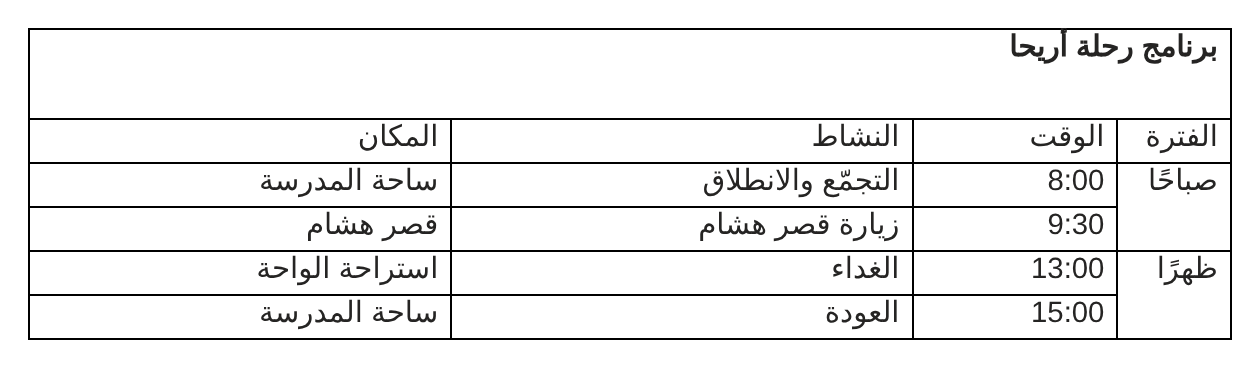
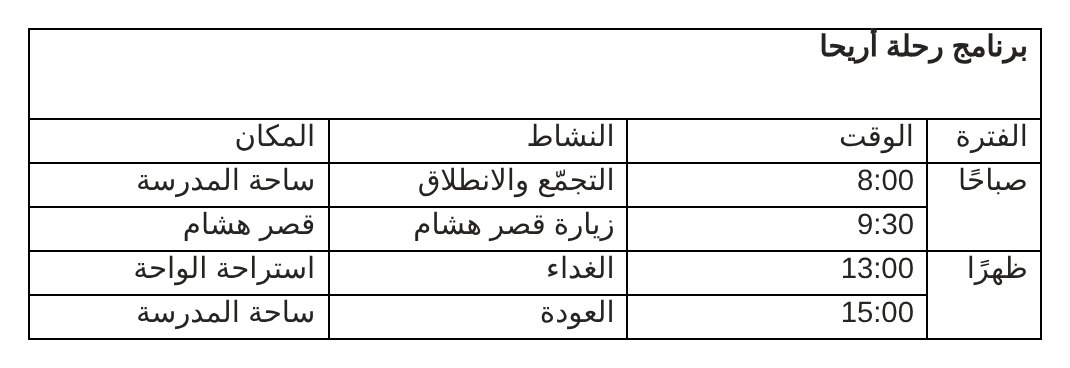
Building challenge: 7-column grid with thin column by the door, light-blue borders, colors via More Colors, pattern via Borders and Shading dialog, Hebron bottom-to-top; textDir cycles like Word; pen splits at drawn position; split-cells column fix; column width keeps other columns
Claude-Session: https://claude.ai/code/session_01SbWiHNL6HNT2SQV93v4NLa

diff --git a/js/tdemos.js b/js/tdemos.js
@@ -36,18 +36,22 @@ DA('PIC_DBL',()=>[cell(()=>c(0,0)),{cmd:'penStyle',arg:'double',say:'نمط ال
 DA('PIC_DASH',()=>[cell(()=>c(1,0)),{cmd:'penStyle',arg:'dashed',say:'نمط الحد: متقطع'},{cmd:'tborders',arg:'inside',say:'حدود ← حدود داخلية'},{cmd:'penStyle',arg:'solid',say:'نمط الحد: متصل'},{cmd:'penWeight',arg:'3',say:'السُّمك: 2¼'},{cmd:'tborders',arg:'outside',say:'حدود ← حدود خارجية'}]);
 DA('PIC_PAINT',()=>[cell(()=>c(0,0)),{cmd:'penColor',arg:'#00b050',say:'لون القلم: أخضر'},{cmd:'penWeight',arg:'3',say:'السُّمك: 2¼'},{cmd:'tselect',arg:'col',say:'تحديد العمود'},js('حدود ← الحد الأيسر للعمود',()=>OPS.tborders(isRTLt(T())?'left':'right'))]);
 DA('PIC_SPLITT',()=>[cell(()=>findCell('13:00'),'النقر في صف «13:00»'),{cmd:'splitTable',say:'تقسيم الجدول'},cell(()=>{const t=[...document.querySelectorAll('#doc table.wt')].find(x=>/ماء/.test(x.textContent));return t&&t.rows[1].cells[0]}),{cmd:'convertText',say:'تحويل إلى نص'},cell(()=>{const t=[...document.querySelectorAll('#doc table.wt')].find(x=>/قديم/.test(x.textContent));return t&&t.rows[0].cells[0]}),{cmd:'tdel',arg:'table',say:'حذف ← حذف الجدول'}]);
-/* تحدٍّ: جدول المبنى — عدّة طرق للحل. الإحداثيات كما تُرى في الصورة (من اليسار): a b | c | d(الباب) | e f */
+/* تحدٍّ: جدول المبنى — عدّة طرق للحل.
+   أعمدة الصورة من اليسار (7): a b | c | d=الباب | g=عمود رفيع بجانب الباب | e f
+   ترتيب الخلايا في كل صف بالـDOM يبدأ من اليمين:
+   0: [ef][cdg][ab]   1,2: [ef][g][d][c][ab]   3: [EF كبير][g][d][c][b][a]  4: [b][a]   5: أخضر   6: [f][eg][d][c][ab] */
 (()=>{const it=g('HOUSE_TASK');if(!it)return;
  const T_=()=>HT();
  const GL=(r,c)=>{const t=T_();if(!t)return null;let hit=null;gridMap(t).forEach((v,td)=>{if(!hit&&v.r1<=r&&r<=v.r2&&v.c1<=c&&c<=v.c2)hit=td});return hit};
  const NC=()=>{const t=T_();let n=0;if(t)gridMap(t).forEach(v=>{n=Math.max(n,v.c2+1)});return n};
- /* عمود الصورة → العمود المنطقي (الجدول العربي يبدأ من اليمين) */
  const LC=pc=>{const t=T_();return t&&isRTLt(t)?NC()-1-pc:pc};
  const P=(r,pc)=>GL(r,LC(pc));
  const D=(r,i)=>{const t=T_();return t&&t.rows[r]?t.rows[r].cells[i]:null};
- const sel=(a,b,say)=>cells(()=>P(...a),()=>P(...b),say);const one=(r,pc,say)=>cell(()=>P(r,pc),say);
- const M=(a,b,say)=>[sel(a,b,say||'حدّد الخلايا بالسحب'),{cmd:'merge',say:'تخطيط ← دمج الخلايا'}];
- /* المؤشر ينتقل إلى نقطة ثم يضغط/يسحب بأحداث ماوس حقيقية */
+ const LD=r=>{const t=T_();return t&&t.rows[r]?t.rows[r].cells[t.rows[r].cells.length-1]:null};
+ const sel=(a,b,say)=>cells(()=>P(...a),()=>P(...b),say);
+ const M=(a,b,say)=>[sel(a,b,say||'تحديد الخلايا بالسحب'),{cmd:'merge',say:'تخطيط ← دمج الخلايا'}];
+ const MD=(ga,gb,say)=>[cells(ga,gb,say||'تحديد الخلايا بالسحب'),{cmd:'merge',say:'تخطيط ← دمج الخلايا'}];
+ const ROW=(r,say)=>cells(()=>D(r,0),()=>LD(r),say);const ONE=(get,say)=>cells(get,get,say);
  const cur=()=>document.getElementById('cursor');
  async function goPt(x,y,ms=650){const c=cur();c.style.display='block';c.style.transitionDuration=(ms*PLAY.k)+'ms';c.style.left=x+'px';c.style.top=y+'px';await A().W(ms+50)}
  const ev=(el,type,x,y)=>el.dispatchEvent(new MouseEvent(type,{bubbles:true,cancelable:true,clientX:x,clientY:y,button:0}));
@@ -55,62 +59,68 @@ DA('PIC_SPLITT',()=>[cell(()=>findCell('13:00'),'النقر في صف «13:00»'
  async function dragPt(el,x1,y1,x2,y2){await goPt(x1,y1);const c=cur();c.classList.add('clk');ev(el,'mousedown',x1,y1);const n=10;for(let i=1;i<=n;i++){const x=x1+(x2-x1)*i/n,y=y1+(y2-y1)*i/n;c.style.transitionDuration='0ms';c.style.left=x+'px';c.style.top=y+'px';ev(document,'mousemove',x,y);await A().W(45)}ev(document,'mouseup',x2,y2);await A().W(250);c.classList.remove('clk')}
  const tool=(t,say)=>({cmd:t==='eraser'?'eraser':'drawTable',say});
  const toolOff=()=>js('',()=>{setTool(null)});
- /* الممحاة: نقرة على الخط الفاصل نفسه فقط (مثل Word) */
- const ER=(r,pc,side,say)=>js(say||'الممحاة: النقر على الخط لمسحه',async()=>{const td=P(r,pc);if(!td)return;await A().showAt(td);const R=td.getBoundingClientRect();
+ /* الممحاة: نقرة على الخط الفاصل نفسه فقط (مثل Word). EH = الخط على يمين خلية الصورة (r,pc) · EV = الخط تحتها */
+ const ER=(r,pc,side,say)=>js(say||'',async()=>{const td=P(r,pc);if(!td)return;await A().showAt(td);const R=td.getBoundingClientRect();
    const row=T_().rows[r].getBoundingClientRect();const ym=(row.top+row.bottom)/2;let x,y;
-   if(side==='right'){x=R.right-2;y=ym}else if(side==='left'){x=R.left+2;y=ym}else{x=(R.left+R.right)/2;y=R.bottom-2}
+   if(side==='right'){x=R.right-2;y=ym}else{x=(R.left+R.right)/2;y=R.bottom-2}
    S.tool!=='eraser'&&setTool('eraser');await clickPt(td,x,y)});
- /* ممحاة بين عمودين في الصورة (pc و pc+1) في الصف r */
  const EH=(r,pc,say)=>ER(r,pc,'right',say);const EV=(r,pc,say)=>ER(r,pc,'bottom',say);
- /* القلم: رسم خط داخل الخلية يقسمها */
- /* keep = عدد الأعمدة التي تبقى في الجزء الأيمن عندما تمتد الخلية على أكثر من عمود: يُرسم الخط على حدّ العمود الموجود */
+ /* القلم: keep رقم = يُرسم الخط على حدّ موجود بعد keep أعمدة من اليمين؛ keep دالة = موضع الخط */
  const PEN=(get,dir,say,keep)=>js(say||'',async()=>{const td=get();if(!td)return;await A().showAt(td);const R=td.getBoundingClientRect();S.tool!=='draw'&&setTool('draw');
-   if(dir==='v'){let x=(R.left+R.right)/2;if(keep&&td.colSpan>1){const v=gridMap(td.closest('table')).get(td),m=colEdges(td.closest('table'));if(m[v.c1+keep]!=null)x=m[v.c1+keep]}await dragPt(td,x,R.top+6,x,R.bottom-6)}
+   if(dir==='v'){let x=(R.left+R.right)/2;if(typeof keep==='function')x=keep(td);else if(keep&&td.colSpan>1){const v=gridMap(td.closest('table')).get(td),m=colEdges(td.closest('table'));if(m[v.c1+keep]!=null)x=m[v.c1+keep]}await dragPt(td,x,R.top+6,x,R.bottom-6)}
    else{const y=(R.top+R.bottom)/2;await dragPt(td,R.left+6,y,R.right-6,y)}});
- /* تقسيم الخلايا من النافذة الحقيقية */
- const SPL=(get,n,rr,say)=>[cell(get,say||'انقر في الخلية'),{cmd:'splitCells',say:`تخطيط ← تقسيم الخلايا: ${n} ${n===1?'عمود':'أعمدة'} × ${rr} ${rr===1?'صف':'صفوف'}`},{fill:'#sc',value:String(n)},{fill:'#sr',value:String(rr)},{click:'#dlgs .df button.pri',say:'موافق'}];
+ const SPL=(get,n,rr,say)=>[cell(get,say||'النقر في الخلية'),{cmd:'splitCells',say:`تخطيط ← تقسيم الخلايا: ${n} ${n===1?'عمود':'أعمدة'} × ${rr} ${rr===1?'صف':'صفوف'}`},{fill:'#sc',value:String(n)},{fill:'#sr',value:String(rr)},{click:'#dlgs .df button.pri',say:'موافق'}];
  const START=(r,c)=>[endP(),{show:'table',say:`إدراج ← جدول ← ${c} ${c===1?'عمود':'أعمدة'} × ${r} صفوف`},js('',()=>insertTable(r,c))];
- const DIST=()=>[one(0,0,'توزيع الأعمدة بالتساوي'),{cmd:'tselect',arg:'table',say:'تحديد ← الجدول'},{cmd:'distCols',say:'تخطيط ← توزيع الأعمدة'}];
- /* التنسيق نفسه في كل الطرق — بترتيب الخلايا في كل صف (الأولى = اليمنى)، فيعمل مهما كانت طريقة البناء */
- const LD=r=>{const t=T_();return t&&t.rows[r]?t.rows[r].cells[t.rows[r].cells.length-1]:null};
- const ROW=(r,say)=>cells(()=>D(r,0),()=>LD(r),say);const ONE=(get,say)=>cells(get,get,say);
+ /* النقش: «حدود وتظليل» ← تبويب «التظليل» ← النمط: قطري لأسفل داكن */
+ const PAT=()=>[cell(()=>D(1,0),'الخلية فوق المربع الكبير'),{cmd:'tborders',arg:'more',say:'حدود ← حدود وتظليل...'},
+   js('تبويب «التظليل»',async()=>{const b=$('#dlgs .bdtabs button[data-t="shade"]');if(!b)return;await A().moveTo(b,600);A().clickFx();b.click();await A().W(400)}),
+   js('النقش ← النمط: قطري لأسفل داكن',async()=>{const x=$('#dlgs .bdP');if(!x)return;await A().moveTo(x,600);A().clickFx();x.value='dkD';x.dispatchEvent(new Event('change'));x.style.outline='3px solid #f0a020';await A().W(800);x.style.outline=''}),
+   {click:'#dlgs .df button.pri',say:'موافق'}];
  const DOOR=(get,say,top)=>[ONE(get,say),{cmd:'tborders',arg:'right',say:'حدود ← حد أيمن'},{cmd:'tborders',arg:'left',say:'حدود ← حد أيسر'},...(top?[{cmd:'tborders',arg:'top',say:'حدود ← حد علوي'}]:[])];
- const FMT=()=>[...DIST(),{cmd:'shading',arg:'#deebf6',say:'تظليل ← أزرق فاتح للجدول كله'},
-  ROW(0,'الصف الأول'),{cmd:'shading',arg:'#44546a',say:'تظليل ← كحلي'},ROW(2,'الصف الثالث'),{cmd:'shading',arg:'#7030a0',say:'تظليل ← بنفسجي'},cell(()=>D(5,0),'الصف الطويل'),{cmd:'shading',arg:'#70ad47',say:'تظليل ← أخضر'},ROW(6,'الصف الأخير'),{cmd:'shading',arg:'#843c0c',say:'تظليل ← أحمر غامق'},
-  cell(()=>D(1,0),'الخلية فوق المربع الكبير'),{cmd:'shading',arg:'pattern',say:'حدود وتظليل ← نقش قطري'},
-  {cmd:'penStyle',arg:'double',say:'نمط الخط ← مزدوج'},...DOOR(()=>D(1,1),'الباب: الخلية الأولى',true),...DOOR(()=>D(2,1),'الباب: الخلية الثانية'),...DOOR(()=>D(3,1),'الباب: الخلية الطويلة'),...DOOR(()=>D(6,2),'الباب في الصف الأخير'),
-  ROW(6,'أسفل الجدول'),{cmd:'tborders',arg:'bottom',say:'حدود ← حد سفلي'},{cmd:'penStyle',arg:'solid',say:'نمط الخط ← متصل'},
+ /* التنسيق نفسه في كل الطرق — بترتيب الخلايا في كل صف (الأولى = اليمنى) */
+ const FMT=(dist=true)=>[...(dist?[cell(()=>D(0,0),'توزيع الأعمدة بالتساوي'),{cmd:'tselect',arg:'table',say:'تحديد ← الجدول'},{cmd:'distCols',say:'تخطيط ← توزيع الأعمدة'},
+     cells(()=>D(1,1),()=>D(2,1),'العمود الرفيع بجانب الباب'),{cmd:'colW',arg:'0.6',say:'تخطيط ← العرض 0.6 سم'}]:[]),
+  cell(()=>D(0,0),'الجدول كله'),{cmd:'tselect',arg:'table',say:'تحديد ← الجدول'},{cmd:'shading',arg:'#deedf2',say:'تظليل ← ألوان أخرى ← أزرق فاتح'},
+  {cmd:'penStyle',arg:'solid',say:'نمط الخط ← مفرد'},{cmd:'penColor',arg:'#7dabba',say:'لون القلم ← ألوان أخرى ← أزرق فاتح'},{cmd:'tborders',arg:'all',say:'حدود ← كل الحدود (أزرق فاتح)'},
+  ROW(0,'الصف الأول'),{cmd:'shading',arg:'#4a8098',say:'تظليل ← ألوان أخرى ← أزرق مخضرّ داكن'},ROW(2,'الصف الثالث'),{cmd:'shading',arg:'#7030a0',say:'تظليل ← بنفسجي'},
+  cell(()=>D(5,0),'الصف الطويل'),{cmd:'shading',arg:'#7b9148',say:'تظليل ← ألوان أخرى ← أخضر زيتي'},ROW(6,'الصف الأخير'),{cmd:'shading',arg:'#893b37',say:'تظليل ← ألوان أخرى ← أحمر غامق'},
+  ...PAT(),
+  {cmd:'penStyle',arg:'double',say:'نمط الخط ← مزدوج'},{cmd:'penColor',arg:'#000000',say:'لون القلم ← أسود'},
+  ...DOOR(()=>D(1,2),'الباب: الخلية الأولى',true),...DOOR(()=>D(2,2),'الباب: الخلية الثانية'),...DOOR(()=>D(3,2),'الباب: الخلية الطويلة'),...DOOR(()=>D(6,2),'الباب في الصف الأخير'),
+  ROW(6,'أسفل الجدول'),{cmd:'tborders',arg:'bottom',say:'حدود ← حد سفلي'},{cmd:'penStyle',arg:'solid',say:'نمط الخط ← مفرد'},
   typeIn(()=>D(3,0),'Bottom center alignment'),cell(()=>D(3,0),'المربع الكبير'),{cmd:'calign',arg:'bottom-center',say:'تخطيط ← محاذاة لأسفل الوسط'},
-  typeIn(()=>D(5,0),'Hebron'),cell(()=>D(5,0),'الصف الأخضر'),{cmd:'textDir',say:'تخطيط ← اتجاه النص'},{cmd:'calign',arg:'middle-center',say:'تخطيط ← محاذاة للوسط'},{cmd:'rowH',arg:'1.8',say:'الارتفاع 1.8 سم'},
+  typeIn(()=>D(5,0),'Hebron'),cell(()=>D(5,0),'الصف الأخضر'),{cmd:'rowH',arg:'1.8',say:'تخطيط ← الارتفاع 1.8 سم'},{cmd:'textDir',say:'اتجاه النص (1): من الأعلى للأسفل'},{cmd:'textDir',say:'اتجاه النص (2): من الأسفل للأعلى — مثل الصورة'},{cmd:'calign',arg:'middle-center',say:'تخطيط ← محاذاة للوسط'},
   js('تحديد «Hebron» ← غامق ← لون الخط أصفر',async()=>{const c=D(5,0);selectWord(c,'Hebron');OPS.bold();selectWord(c,'Hebron');OPS.fontcolor('#ffff00');clearCells()})];
- /* دمج الطريقة 1 (بإحداثيات الصورة) */
- const MERGES=()=>[...M([0,0],[0,1],'الصف الأول: ادمج كل جزأين'),...M([0,2],[0,3]),...M([0,4],[0,5]),...[1,2].flatMap(r=>[...M([r,0],[r,1]),...M([r,4],[r,5])]),
-   ...M([3,2],[4,2],'الأعمدة الطويلة: ادمج عموديًّا'),...M([3,3],[4,3]),...M([3,4],[4,5],'المربع الكبير: 2×2'),...M([5,0],[5,5],'الصف الأخضر كله خلية واحدة'),...M([6,0],[6,1])];
- const ERASE=()=>[tool('eraser','تصميم الجدول ← الممحاة'),EH(0,0,'امسح الخط بين الخليتين'),EH(0,2),EH(0,4),...[1,2].flatMap(r=>[EH(r,0),EH(r,4)]),EV(3,2,'امسح الخط الأفقي'),EV(3,3),EH(3,4),EH(4,4),EV(3,4,'المربع الكبير'),
-   EH(5,0,'الصف الأخضر: امسح كل الخطوط'),EH(5,0),EH(5,0),EH(5,0),EH(5,0),EH(6,0),toolOff()];
+ /* 7 أعمدة × 7 صفوف: الدمج */
+ const MERGES=()=>[...M([0,0],[0,1],'الصف الأول: دمج كل جزء'),...M([0,2],[0,4]),...M([0,5],[0,6]),...[1,2].flatMap(r=>[...M([r,0],[r,1]),...M([r,5],[r,6])]),
+   ...M([3,2],[4,2],'الأعمدة الطويلة: دمج عموديًّا'),...M([3,3],[4,3]),...M([3,4],[4,4]),...M([3,5],[4,6],'المربع الكبير: 2×2'),...M([5,0],[5,6],'الصف الأخضر كله خلية واحدة'),...M([6,0],[6,1],'الصف الأخير'),...M([6,4],[6,5])];
+ const ERASE=()=>[tool('eraser','تصميم الجدول ← الممحاة'),EH(0,0,'النقر على الخط بين الخليتين يمسحه فقط'),EH(0,2),EH(0,2),EH(0,5),...[1,2].flatMap(r=>[EH(r,0),EH(r,5)]),
+   EV(3,2,'مسح الخطوط الأفقية في الأعمدة الطويلة'),EV(3,3),EV(3,4),EH(3,5,'المربع الكبير'),EH(4,5),EV(3,5),
+   EH(5,0,'الصف الأخضر: مسح كل الخطوط'),EH(5,0),EH(5,0),EH(5,0),EH(5,0),EH(5,0),EH(6,0,'الصف الأخير'),EH(6,4),toolOff()];
+ const efRight=td=>{const R=td.getBoundingClientRect(),m=colEdges(td.closest('table')),v=gridMap(td.closest('table')).get(td);const a=m[v.c1],b=m[v.c1+1];return a!=null&&b!=null?a+(b-a)*0.5:(R.left+R.right)/2};
  it.demoMethods=[
-  {name:'1. الدمج فقط',d:'إدراج جدول 6 أعمدة × 7 صفوف (عدد كل الأعمدة والصفوف في الصورة)، ثم تحديد الخلايا التي يجب أن تصبح خلية واحدة ← «دمج الخلايا».',
-   list:()=>[...START(7,6),...MERGES(),...FMT()]},
-  {name:'2. الممحاة',d:'نفس الجدول 6 × 7، لكن بدل «دمج الخلايا»: تصميم الجدول ← الممحاة، ثم النقر على الخط الفاصل نفسه؛ يُمسح ذلك الخط فقط وتصبح الخليتان خلية واحدة.',
-   list:()=>[...START(7,6),...ERASE(),...FMT()]},
-  {name:'3. تقسيم الخلايا فقط',d:'إدراج جدول من عمود واحد × 5 صفوف، ثم تقسيم كل صف حسب عدد أجزائه من «تقسيم الخلايا» — بدون أي دمج. الصف الأخضر يبقى كما هو.',
-   list:()=>[...START(5,1),...SPL(()=>D(0,0),3,1,'الصف الأول: 3 أجزاء'),...SPL(()=>D(1,0),3,2,'الصفّان 2 و3: 3 أجزاء × صفّين'),...SPL(()=>D(1,1),2,1,'جزء الباب'),...SPL(()=>D(2,1),2,1),
-     ...SPL(()=>D(3,0),3,1,'صف المربع الكبير'),...SPL(()=>D(3,1),2,1),...SPL(()=>D(3,3),2,2,'المربعات الأربعة الصغيرة: 2×2'),
-     ...SPL(()=>D(6,0),3,1,'الصف الأخير'),...SPL(()=>D(6,1),2,1),...SPL(()=>D(6,0),2,1),...FMT()]},
-  {name:'4. التقسيم بالقلم',d:'إدراج جدول من عمود واحد × 5 صفوف، ثم تصميم الجدول ← رسم جدول (القلم): رسم خط داخل الخلية يقسمها إلى خليتين. خط عمودي = عمودان، خط أفقي = صفّان.',
-   list:()=>[...START(5,1),tool('draw','تصميم الجدول ← رسم جدول (القلم)'),PEN(()=>D(0,0),'v','الصف الأول: خط عمودي داخل الخلية'),PEN(()=>D(0,0),'v','وخط آخر ← 3 خلايا'),
+  {name:'1. الدمج فقط',d:'إدراج جدول 7 أعمدة × 7 صفوف (كل خطوط الصورة، ومنها العمود الرفيع بجانب الباب)، ثم تحديد الخلايا التي تصبح خلية واحدة ← «دمج الخلايا».',
+   list:()=>[...START(7,7),...MERGES(),...FMT()]},
+  {name:'2. الممحاة',d:'نفس الجدول 7 × 7، لكن بدل «دمج الخلايا»: تصميم الجدول ← الممحاة، ثم النقر على الخط الفاصل نفسه؛ يُمسح ذلك الخط فقط.',
+   list:()=>[...START(7,7),...ERASE(),...FMT()]},
+  {name:'3. تقسيم الخلايا فقط',d:'إدراج جدول من عمود واحد × 5 صفوف، ثم تقسيم كل صف من «تقسيم الخلايا» حسب عدد أجزائه — بدون أي دمج.',
+   list:()=>[...START(5,1),...SPL(()=>D(0,0),3,1,'الصف الأول: 3 أجزاء'),...SPL(()=>D(1,0),5,2,'صفّا الباب: 5 أجزاء × صفّين'),
+     ...SPL(()=>D(3,0),5,1,'صف المربع الكبير: 5 أجزاء'),...SPL(()=>D(3,4),2,2,'المربعات الأربعة الصغيرة: 2×2'),...SPL(()=>D(6,0),5,1,'الصف الأخير: 5 أجزاء'),...FMT(false)]},
+  {name:'4. التقسيم بالقلم',d:'إدراج جدول من عمود واحد × 5 صفوف، ثم تصميم الجدول ← رسم جدول (القلم): خط عمودي داخل الخلية = عمودان، خط أفقي = صفّان. الخط المرسوم على امتداد خط موجود يلتصق به.',
+   list:()=>[...START(5,1),tool('draw','تصميم الجدول ← رسم جدول (القلم)'),PEN(()=>D(0,0),'v','الصف الأول: خط عمودي'),PEN(()=>D(0,0),'v','وخط آخر ← 3 خلايا'),
      PEN(()=>D(1,0),'h','الصف الثاني: خط أفقي ليصبح صفّين'),
-     PEN(()=>D(1,0),'v','خطوط عمودية على امتداد خطوط الصف الأول',1),PEN(()=>D(1,1),'v','',1),PEN(()=>D(1,1),'v','وخط جديد يفصل الباب'),
-     ...[2,3].flatMap(r=>[PEN(()=>D(r,0),'v',r===2?'الصف التالي: نفس الخطوط':'صف المربع الكبير',1),PEN(()=>D(r,1),'v','',1),PEN(()=>D(r,2),'v','',1)]),
-     PEN(()=>D(3,3),'v','المربعات الصغيرة: خط عمودي'),PEN(()=>D(3,3),'h','ثم خط أفقي في كل مربع'),PEN(()=>D(3,4),'h'),
-     PEN(()=>D(6,0),'v','الصف الأخير',1),PEN(()=>D(6,0),'v','خط جديد بين آخر خليتين'),PEN(()=>D(6,2),'v','',1),PEN(()=>D(6,3),'v','',1),toolOff(),...FMT()]},
-  {name:'5-أ. 4 أعمدة: تقسيم ودمج',d:'إدراج 4 أعمدة × 6 صفوف (أعمدة الصف البنفسجي). تقسيم خلية المربعات الصغيرة 2×2 وآخر خلية في الصف الأخير إلى عمودين، ثم دمج وسط الصف الأول والصف الأخضر.',
-   list:()=>[...START(6,4),...SPL(()=>D(3,3),2,2,'المربعات الأربعة الصغيرة: 2×2'),...SPL(()=>D(6,0),2,1,'الصف الأخير: آخر خلية عمودان'),cells(()=>D(0,1),()=>D(0,2),'الصف الأول: تحديد خليتي الوسط'),{cmd:'merge',say:'تخطيط ← دمج الخلايا'},ROW(5,'الصف الأخضر كله'),{cmd:'merge',say:'دمج الخلايا'},...FMT()]},
-  {name:'5-ب. 3 أعمدة: تقسيم ودمج',d:'إدراج 3 أعمدة × 6 صفوف (أعمدة الصف الأول). تقسيم خلية الوسط في الصفوف التي فيها باب، وتقسيم المربعات الصغيرة 2×2، ثم دمج الصف الأخضر.',
-   list:()=>[...START(6,3),...[1,2,3].flatMap(r=>SPL(()=>D(r,1),2,1,r===1?'خلية الوسط ← عمودان (الباب)':'')),...SPL(()=>D(3,3),2,2,'المربعات الأربعة الصغيرة: 2×2'),
-     ...SPL(()=>D(6,1),2,1,'الصف الأخير: الوسط عمودان'),...SPL(()=>D(6,0),2,1,'وآخر خلية عمودان'),ROW(5,'الصف الأخضر: تحديد الصف كله'),{cmd:'merge',say:'تخطيط ← دمج الخلايا'},...FMT()]},
-  {name:'5-ج. دمج + ممحاة + قلم',d:'إدراج 6 أعمدة × 7 صفوف: دمج بعض الخلايا من «دمج الخلايا»، ومسح خطوط أخرى بالممحاة.',
-   list:()=>[...START(7,6),...M([0,0],[0,1],'الصف الأول بالدمج'),...M([0,2],[0,3]),...M([0,4],[0,5]),...M([5,0],[5,5],'الصف الأخضر بالدمج'),
-     tool('eraser','الباقي بالممحاة'),...[1,2].flatMap(r=>[EH(r,0),EH(r,4)]),EV(3,2),EV(3,3),EH(3,4),EH(4,4),EV(3,4),EH(6,0),toolOff(),...FMT()]}];
+     PEN(()=>D(1,0),'v','على امتداد خطوط الصف الأول',1),PEN(()=>D(1,1),'v','',1),PEN(()=>D(1,1),'v','خطّان جديدان: الباب والعمود الرفيع'),PEN(()=>D(1,1),'v'),
+     ...[2,3].flatMap(r=>[PEN(()=>D(r,0),'v',r===2?'الصف التالي: نفس الخطوط':'صف المربع الكبير',1),PEN(()=>D(r,1),'v','',1),PEN(()=>D(r,2),'v','',1),PEN(()=>D(r,3),'v','',1)]),
+     PEN(()=>D(3,4),'v','المربعات الصغيرة: خط عمودي'),PEN(()=>D(3,4),'h','ثم خط أفقي في كل مربع'),PEN(()=>D(3,5),'h'),
+     PEN(()=>D(6,0),'v','الصف الأخير',2),PEN(()=>D(6,1),'v','',1),PEN(()=>D(6,2),'v','',1),PEN(()=>D(6,0),'v','خط جديد داخل الجزء الأيمن',efRight),toolOff(),...FMT()]},
+  {name:'5-أ. 5 أعمدة: تقسيم ودمج',d:'إدراج 5 أعمدة × 6 صفوف (أجزاء صفّ الباب). تقسيم المربعات الصغيرة 2×2 وآخر خلية يمنى في الصف الأخير، ثم دمج وسط الصف الأول، والصف الأخضر، وخليتين في الصف الأخير.',
+   list:()=>[...START(6,5),...SPL(()=>D(3,4),2,2,'المربعات الأربعة الصغيرة: 2×2'),...SPL(()=>D(6,0),2,1,'الصف الأخير: الخلية اليمنى عمودان'),
+     ...MD(()=>D(0,1),()=>D(0,3),'الصف الأول: تحديد الخلايا الثلاث في الوسط'),...MD(()=>D(5,0),()=>LD(5),'الصف الأخضر كله'),...MD(()=>D(6,1),()=>D(6,2),'الصف الأخير: دمج خليتين'),...FMT()]},
+  {name:'5-ب. 3 أعمدة: تقسيم ودمج',d:'إدراج 3 أعمدة × 6 صفوف (أجزاء الصف الأول). تقسيم الخلية الوسطى في صفوف الباب إلى 3، وتقسيم المربعات الصغيرة 2×2، ثم دمج الصف الأخضر وخليتين في الصف الأخير.',
+   list:()=>[...START(6,3),...[1,2,3].flatMap(r=>SPL(()=>D(r,1),3,1,r===1?'الخلية الوسطى ← 3 أعمدة':'')),...SPL(()=>D(3,4),2,2,'المربعات الأربعة الصغيرة: 2×2'),
+     ...SPL(()=>D(6,1),3,1,'الصف الأخير: الوسط 3 أعمدة'),...SPL(()=>D(6,0),2,1,'والخلية اليمنى عمودان'),...MD(()=>D(6,1),()=>D(6,2),'دمج خليتين'),...MD(()=>D(5,0),()=>LD(5),'الصف الأخضر كله'),...FMT()]},
+  {name:'5-ج. دمج + ممحاة',d:'إدراج 7 أعمدة × 7 صفوف: دمج بعض الخلايا من «دمج الخلايا»، ومسح خطوط أخرى بالممحاة.',
+   list:()=>[...START(7,7),...M([0,0],[0,1],'الصف الأول بالدمج'),...M([0,2],[0,4]),...M([0,5],[0,6]),...M([5,0],[5,6],'الصف الأخضر بالدمج'),
+     tool('eraser','الباقي بالممحاة'),...[1,2].flatMap(r=>[EH(r,0),EH(r,5)]),EV(3,2),EV(3,3),EV(3,4),EH(3,5),EH(4,5),EV(3,5),EH(6,0),EH(6,4),toolOff(),...FMT()]}];
  it.demoAll=it.demoMethods[0].list})();
 })();

diff --git a/js/tables.js b/js/tables.js
@@ -39,7 +39,7 @@ function gridMap(t){const occ=[];const m=new Map();[...t.rows].forEach((tr,r)=>{
 function splitCellNM(c,n,rr){const t=c.closest('table');const w0=c.offsetWidth,auto=t.style.tableLayout==='auto';let g=gridMap(t);const v=g.get(c);const group=[c];
   if(n>1){if(c.colSpan>=n){const extra=c.colSpan-n;c.colSpan=1;let last=c;for(let i=0;i<n-1;i++){const x=newCell();x.rowSpan=c.rowSpan;last.after(x);last=x;group.push(x)}if(extra>0)last.colSpan+=extra}
     else{const add=n-c.colSpan;c.colSpan=1;let last=c;for(let i=0;i<n-1;i++){const x=newCell();x.rowSpan=c.rowSpan;last.after(x);last=x;group.push(x)}
-      const seen=new Set();g.forEach((w,td)=>{if(td===c||seen.has(td))return;if(w.r2<v.r1||w.r1>v.r2){if(w.c1<=v.c2&&w.c2>=v.c1){seen.add(td);td.colSpan+=add}}})}}
+      const seen=new Set();g.forEach((w,td)=>{if(td===c||seen.has(td))return;if(w.r2<v.r1||w.r1>v.r2){if(w.c1<=v.c2&&w.c2>=v.c2){seen.add(td);td.colSpan+=add}}})}}
   if(rr>1&&c.rowSpan===1){const tr=c.parentElement;g=gridMap(t);const seen=new Set();g.forEach((w,td)=>{if(group.includes(td))return;if(w.r1<=v.r1&&w.r2>=v.r1&&!seen.has(td)){seen.add(td);td.rowSpan+=rr-1}});
     let after=tr;for(let i=0;i<rr-1;i++){const nr=document.createElement('tr');group.forEach(gc=>{const x=newCell();x.colSpan=gc.colSpan;nr.appendChild(x)});after.after(nr);after=nr}}
   if(n>1){const ws=Math.max(24,Math.round(w0/n))+'px';group.forEach((x,i)=>{if(i===0||!x.textContent.trim()){x.style.width=ws;x.style.minWidth=auto?'':ws}})}}
@@ -96,11 +96,20 @@ Object.assign(OPS,{
   splitTable(){if(!needCell())return;snap();const t=S.curCell.closest('table'),tr=S.curCell.parentElement;if(tr.rowIndex===0)return;const t2=t.cloneNode(false);const tb=document.createElement('tbody');t2.appendChild(tb);let r=tr;while(r){const n=r.nextElementSibling;tb.appendChild(r);r=n}const p=document.createElement('p');p.innerHTML='<br>';t.after(p,t2);logAct('splitTable')},
   autofit(a){if(!needCell())return;snap();const t=S.curCell.closest('table');t.style.tableLayout=a==='content'?'auto':'fixed';t.style.width=a==='content'?'auto':'100%'},
   rowH(v){if(!needCell())return;snap();new Set(targetCells().map(c=>c.parentElement)).forEach(r=>[...r.cells].forEach(c=>c.style.height=(+v*CM)+'px'));logAct('rowH')},
-  colW(v){if(!needCell())return;snap();const t=S.curCell.closest('table');t.style.tableLayout='auto';const g=gridMap(t);const want=new Set();targetCells().forEach(c=>{const x=g.get(c);if(x)for(let k=x.c1;k<=x.c2;k++)want.add(k)});g.forEach((x,td)=>{if(x.c1===x.c2&&want.has(x.c1))td.style.width=(+v*CM)+'px'});logAct('colW')},
+  colW(v){if(!needCell())return;snap();const t=S.curCell.closest('table');const g=gridMap(t);const want=new Set();targetCells().forEach(c=>{const x=g.get(c);if(x)for(let k=x.c1;k<=x.c2;k++)want.add(k)});
+    /* مثل Word: يتغيّر عرض العمود المحدّد فقط وتبقى الأعمدة الأخرى كما هي (يتغيّر عرض الجدول) */
+    let nc=0;g.forEach(x=>{nc=Math.max(nc,x.c2+1)});const W=Array(nc).fill(null);g.forEach((x,td)=>{if(x.c1===x.c2&&W[x.c1]==null)W[x.c1]=td.offsetWidth});
+    g.forEach((x,td)=>{const un=[];let kn=0;for(let k=x.c1;k<=x.c2;k++){if(W[k]==null)un.push(k);else kn+=W[k]}if(un.length)un.forEach(k=>W[k]=Math.max(20,(td.offsetWidth-kn)/un.length))});for(let j=0;j<nc;j++)if(W[j]==null)W[j]=60;
+    want.forEach(j=>W[j]=+v*CM);t.style.tableLayout='auto';t.style.width=Math.round(W.reduce((s,x)=>s+x,0))+'px';
+    g.forEach((x,td)=>{let w=0;for(let k=x.c1;k<=x.c2;k++)w+=W[k];td.style.width=Math.round(w)+'px';td.style.minWidth=''});logAct('colW')},
   distRows(){if(!needCell())return;const t=S.curCell.closest('table');const h=Math.max(...[...t.rows].map(r=>r.offsetHeight));[...t.rows].forEach(r=>[...r.cells].forEach(c=>c.style.height=h+'px'))},
   distCols(){if(!needCell())return;const t=S.curCell.closest('table');t.style.tableLayout='fixed';t.querySelectorAll('td').forEach(c=>c.style.width='')},
   calign(a){const cs=targetCells();if(!cs.length){simToast('النقر داخل خلية أولًا');return}snap();const [v,h]=a.split('-');cs.forEach(c=>{c.style.verticalAlign=v;c.style.textAlign=h})},
-  textDir(){if(S.obj&&S.obj.classList.contains('shp')){const t=S.obj.querySelector('.stxt');t.style.writingMode=t.style.writingMode?'':'vertical-rl';return}const cs=targetCells();cs.forEach(c=>c.style.writingMode=c.style.writingMode?'':'vertical-rl')},
+  textDir(){if(S.obj&&S.obj.classList.contains('shp')){const t=S.obj.querySelector('.stxt');t.style.writingMode=t.style.writingMode?'':'vertical-rl';return}const cs=targetCells();if(!cs.length)return;snap();
+    /* مثل Word: كل نقرة تنقل للاتجاه التالي — أفقي ← من الأعلى للأسفل ← من الأسفل للأعلى ← أفقي */
+    const st=c=>!c.style.writingMode?0:(c.style.transform&&c.style.transform!=='none'?2:1);const nx=(st(cs[0])+1)%3;
+    cs.forEach(c=>{c.style.writingMode=nx?'vertical-rl':'';c.style.transform=nx===2?'rotate(180deg)':''});
+    try{simToast(['اتجاه النص: أفقي','اتجاه النص: من الأعلى إلى الأسفل','اتجاه النص: من الأسفل إلى الأعلى'][nx])}catch(e){}logAct('textDir:'+nx)},
   cellMargins(){simToast('هوامش الخلايا: للعرض فقط')},
   tsort(){if(!needCell())return;snap();const t=S.curCell.closest('table');const rows=[...t.rows].slice(t.classList.contains('nohdr')?0:1);const ci=S.curCell.cellIndex;rows.sort((a,b)=>(a.cells[ci]?.textContent||'').localeCompare(b.cells[ci]?.textContent||'','ar',{numeric:true}));rows.forEach(r=>t.tBodies[0].appendChild(r));simToast('تم فرز الجدول')},
   repeatHeader(){simToast('تكرار صفوف الرأس: مفعّل')},formula(){simToast('صيغة: للعرض فقط')},

diff --git a/index.html b/index.html
@@ -3,14 +3,14 @@
 <head>
 <meta http-equiv="Cache-Control" content="no-cache, no-store, must-revalidate"><meta http-equiv="Pragma" content="no-cache"><meta http-equiv="Expires" content="0">
 <script>window.LW=()=>document.documentElement.clientWidth||innerWidth;window.LH=()=>document.documentElement.clientHeight||innerHeight;</script>
-<script>window.APPV="11261411";fetch("version.json?"+Date.now(),{cache:"no-store"}).then(r=>r.json()).then(j=>{if(j.v&&j.v!==window.APPV){const k="wl-reload-"+j.v;if(!sessionStorage.getItem(k)){sessionStorage.setItem(k,1);location.replace(location.pathname+"?v="+j.v+location.hash)}}}).catch(()=>{});</script>
+<script>window.APPV="11261442";fetch("version.json?"+Date.now(),{cache:"no-store"}).then(r=>r.json()).then(j=>{if(j.v&&j.v!==window.APPV){const k="wl-reload-"+j.v;if(!sessionStorage.getItem(k)){sessionStorage.setItem(k,1);location.replace(location.pathname+"?v="+j.v+location.hash)}}}).catch(()=>{});</script>
 <meta charset="utf-8">
 <meta name="viewport" content="width=device-width,initial-scale=1">
 <title>برنامج وورد — دليل التطبيق العملي</title>
 <link rel="preconnect" href="https://fonts.googleapis.com">
 <link href="https://fonts.googleapis.com/css2?family=Tajawal:wght@400;500;700;800&display=swap" rel="stylesheet">
-<link rel="stylesheet" href="css/word.css?v=11261411">
-<link rel="stylesheet" href="css/app.css?v=11261411">
+<link rel="stylesheet" href="css/word.css?v=11261442">
+<link rel="stylesheet" href="css/app.css?v=11261442">
 <style>html{overflow:hidden}</style>
 </head>
 <body>
@@ -30,35 +30,35 @@
 </div>
 <div id="ovl" style="position:absolute;left:0;top:0;width:0;height:0;z-index:1200"><div id="ring"></div><div id="bubble"></div><div id="rtip"></div></div><div id="blocker"></div><button id="stopDemo">⏹ إيقاف المشاهدة</button>
 <div id="cursor"><svg viewBox="0 0 24 24" width="30" height="30"><path d="M4 2l15 11-7 1 4 8-3 1.5-4-8-5 5z" fill="#fff" stroke="#111" stroke-width="1.4" stroke-linejoin="round"/></svg></div>
-<script src="js/zoomfix.js?v=11261411"></script>
-<script src="js/icons.js?v=11261411"></script>
-<script src="js/data.js?v=11261411"></script>
-<script src="js/ribbon.js?v=11261411"></script>
-<script src="js/doc.js?v=11261411"></script>
-<script src="js/features.js?v=11261411"></script>
-<script src="js/tables.js?v=11261411"></script>
-<script src="js/objects.js?v=11261411"></script>
-<script src="js/learn.js?v=11261411"></script>
-<script src="js/content.js?v=11261411"></script>
-<script src="js/lessons.js?v=11261411"></script>
-<script src="js/tproject-snaps.js?v=11261411"></script>
-<script src="js/tproject.js?v=11261411"></script>
-<script src="js/tablepics.js?v=11261411"></script>
-<script src="js/tabletools.js?v=11261411"></script>
-<script src="js/tablemouse.js?v=11261411"></script>
-<script src="js/parapro.js?v=11261411"></script>
-<script src="js/selbar.js?v=11261411"></script>
-<script src="js/autoplay.js?v=11261411"></script>
-<script src="js/guide.js?v=11261411"></script>
-<script src="js/curriculum.js?v=11261411"></script>
-<script src="js/morepics.js?v=11261411"></script>
-<script src="js/demos.js?v=11261411"></script>
-<script src="js/tdemos.js?v=11261411"></script>
-<script src="js/topics-meta.js?v=11261411"></script>
-<script src="js/config.js?v=11261411"></script>
-<script src="js/cloud.js?v=11261411"></script>
-<script src="js/stats.js?v=11261411"></script>
-<script src="js/exportdocx.js?v=11261411"></script>
+<script src="js/zoomfix.js?v=11261442"></script>
+<script src="js/icons.js?v=11261442"></script>
+<script src="js/data.js?v=11261442"></script>
+<script src="js/ribbon.js?v=11261442"></script>
+<script src="js/doc.js?v=11261442"></script>
+<script src="js/features.js?v=11261442"></script>
+<script src="js/tables.js?v=11261442"></script>
+<script src="js/objects.js?v=11261442"></script>
+<script src="js/learn.js?v=11261442"></script>
+<script src="js/content.js?v=11261442"></script>
+<script src="js/lessons.js?v=11261442"></script>
+<script src="js/tproject-snaps.js?v=11261442"></script>
+<script src="js/tproject.js?v=11261442"></script>
+<script src="js/tablepics.js?v=11261442"></script>
+<script src="js/tabletools.js?v=11261442"></script>
+<script src="js/tablemouse.js?v=11261442"></script>
+<script src="js/parapro.js?v=11261442"></script>
+<script src="js/selbar.js?v=11261442"></script>
+<script src="js/autoplay.js?v=11261442"></script>
+<script src="js/guide.js?v=11261442"></script>
+<script src="js/curriculum.js?v=11261442"></script>
+<script src="js/morepics.js?v=11261442"></script>
+<script src="js/demos.js?v=11261442"></script>
+<script src="js/tdemos.js?v=11261442"></script>
+<script src="js/topics-meta.js?v=11261442"></script>
+<script src="js/config.js?v=11261442"></script>
+<script src="js/cloud.js?v=11261442"></script>
+<script src="js/stats.js?v=11261442"></script>
+<script src="js/exportdocx.js?v=11261442"></script>
 <script>cloudInit();</script>
 </body>
 </html>

diff --git a/js/tproject.js b/js/tproject.js
@@ -193,8 +193,10 @@ const purpleRow=()=>rowsArr().find(tr=>isRow(tr,C_PUR))||null;
 const lastRow=()=>rowsArr().at(-1)||null;
 const visAt=(g,r,c)=>{let o=null;g.forEach((v,td)=>{if(r>=v.r1&&r<=v.r2&&c>=v.c1&&c<=v.c2)o=td});return o};
 function bigBlock(){const t=HT();if(!t)return null;const g=gridMap(t),nc=cols(t);const pr=purpleRow(),gr=greenRow2();if(!pr||!gr)return null;const pi=pr.rowIndex,gi=gr.rowIndex;let hit=null;
-  g.forEach((v,td)=>{if(hit||td.rowSpan<2||td.colSpan<2)return;if(!(v.r1>pi&&v.r2<gi))return;const right=v.c2===nc-1,left=v.c1===0;if(!right&&!left)return;
-    const oc=right?[0,1]:[nc-1,nc-2];let ok=true;for(let r=v.r1;r<=v.r2;r++)oc.forEach(c=>{const x=visAt(g,r,c);if(!x||x.rowSpan!==1||x.colSpan!==1)ok=false});if(ok)hit=td});return hit}
+  g.forEach((v,td)=>{if(hit||td.rowSpan<2)return;if(!(v.r1>pi&&v.r2<gi))return;const right=v.c2===nc-1,left=v.c1===0;if(!right&&!left)return;
+    const oc=right?[0,1]:[nc-1,nc-2];let ok=true,sw=0;for(let r=v.r1;r<=v.r2;r++)oc.forEach(c=>{const x=visAt(g,r,c);if(!x||x.rowSpan!==1||x.colSpan!==1)ok=false;else sw=Math.max(sw,x.offsetWidth)});
+    /* بالدمج: عمودان؛ بتقسيم الخلايا قد يكون عمودًا واحدًا لكن عرضه ضعف المربع الصغير */
+    if(ok&&(td.colSpan>=2||(sw&&td.offsetWidth>=1.6*sw)))hit=td});return hit}
 const dbl=td=>td.style.borderRightStyle==='double'&&td.style.borderLeftStyle==='double';
 const HOUSE_TASK={t:'تطبيق: إعادة رسم جدول المبنى',kind:'do',goalImg:'img/house-table.jpg',g:'مشروع: إعادة رسم الجدول',
  intro:'بدء من الصفر: إدراج جدول، ثم دمج وتظليل ورسم الحدود حتى يصبح مثل الصورة. الصورة ستبقى أمام المستخدم طوال الوقت.<br><small>في Word العربي يبدأ الجدول من اليمين، فقد يظهر معكوسًا عن الصورة — هذا طبيعي.</small>',
@@ -213,7 +215,7 @@ const HOUSE_TASK={t:'تطبيق: إعادة رسم جدول المبنى',kind:'
   R('إطار الباب مزدوج',()=>{const p=purpleRow(),l=lastRow();return !!p&&!!l&&[...p.cells].some(dbl)&&[...l.cells].some(dbl)},()=>HT()?.rows[2],'«نمط الخط» ← مزدوج، ثم تحديد خلايا الباب بالسحب ← حدود ← حدود خارجية، وفي الصف الأخير حدّان أيمن وأيسر للباب','tborders'),
   R('خط مزدوج بالأسفل',()=>{const r=lastRow();return !!r&&[...r.cells].every(td=>td.style.borderBottomStyle==='double')},()=>lastRow(),'«نمط الخط» ← مزدوج، تحديد الصف الأخير ← حدود ← حد سفلي','tborders'),
   R('Bottom center alignment',()=>{const b=bigBlock();return !!b&&fuzzyHas(b.textContent,'Bottom center alignment')&&b.style.verticalAlign==='bottom'&&b.style.textAlign==='center'},()=>hcells().find(td=>td.colSpan>=2&&td.rowSpan>=2)||HT(),'كتابة العبارة في المربع الكبير ← تخطيط ← «محاذاة لأسفل الوسط»','calign'),
-  R('Hebron عمودية',()=>!!hebron()&&!!hebron().style.writingMode,()=>greenRow2()?.cells[0]||HT(),'كتابة Hebron في الصف الأخضر ← تخطيط ← اتجاه النص','textDir'),
+  R('Hebron عمودية من الأسفل للأعلى',()=>!!hebron()&&!!hebron().style.writingMode&&/rotate/.test(hebron().style.transform||''),()=>greenRow2()?.cells[0]||HT(),'كتابة Hebron في الصف الأخضر ← تخطيط ← اتجاه النص (النقر مرتين: المرة الأولى من الأعلى للأسفل، والثانية من الأسفل للأعلى)','textDir'),
   R('Hebron أصفر وعريض',()=>{const td=hebron();if(!td)return false;const w=document.createTreeWalker(td,NodeFilter.SHOW_TEXT);let n;while(n=w.nextNode()){if(fuzzyHas(n.nodeValue,'Hebron')){const cs=getComputedStyle(n.parentElement);return C_YEL(cs.color)&&(+cs.fontWeight>=600||cs.fontWeight==='bold')}}return false},()=>hebron()||greenRow2()?.cells[0]||HT(),'تحديد الكلمة ← الصفحة الرئيسية ← لون الخط أصفر + غامق','fontcolor'),
   R('الصف الأخضر أعلى (1.5 سم+)',()=>{const r=greenRow2();return !!r&&parseFloat(r.cells[0].style.height)>=1.5*CM-2},()=>greenRow2()||HT(),'النقر في الصف الأخضر ← تخطيط ← الارتفاع: 1.8','rowH'),
  ]};

diff --git a/js/autoplay.js b/js/autoplay.js
@@ -60,7 +60,13 @@ async function ribbonCmd(cmd,arg,say){bar(say||'');const tab=tabOfCmd(cmd);if(ta
   /* أمر له قائمة منسدلة: افتح القائمة وأرِ الخيار ثم اختره (مثل Word) */
   const w=b&&b.dataset.dd&&b.closest('.ddw');if(w&&arg!=null&&!PL.stop){try{hideCoach()}catch(e){}try{openMenu(w)}catch(e){}await W(450);
     const A=String(arg).toLowerCase();const it=[...w.querySelectorAll('.dd [data-arg]')].find(x=>String(x.dataset.arg).toLowerCase()===A&&(!x.dataset.cmd||x.dataset.cmd===cmd||!w.querySelector(`.dd [data-cmd="${cmd}"]`)));
-    if(it&&it.offsetParent){await W(500);await moveTo(it,650);it.classList.add('hov');clickFx();await W(350)}else await W(500);
+    if(it&&it.offsetParent){await W(500);await moveTo(it,650);it.classList.add('hov');clickFx();await W(350)}
+    else{const mo=/^#[0-9a-f]{6}$/i.test(String(arg))&&[...w.querySelectorAll('.dd [data-arg="more"]')].find(x=>x.dataset.cmd===cmd);
+      /* اللون ليس في اللوحة: «ألوان أخرى...» ثم اختيار اللون نفسه (مثل Word) */
+      if(mo&&mo.offsetParent){await W(400);await moveTo(mo,650);mo.classList.add('hov');clickFx();await W(350);mo.classList.remove('hov');try{closeMenus()}catch(e){}
+        if(r0)setSel(r0);run(cmd,'more');await W(450);const inp=$('#cdc');if(inp){await moveTo(inp,600);clickFx();inp.value=String(arg).toLowerCase();const hx=$('#cdh');if(hx)hx.value=inp.value;inp.style.outline='3px solid #f0a020';await W(700);inp.style.outline='';
+          const ok=$('#dlgs .df button.pri');if(ok){await moveTo(ok,550);clickFx();await W(200);ok.click()}}await W(400);try{hideCoach()}catch(e){}return}
+      await W(500)}
     it&&it.classList.remove('hov');try{closeMenus()}catch(e){}}
   if(r0){setSel(r0)}run(cmd,arg);await W(500);try{hideCoach()}catch(e){}}
 async function demoOp(o){if(PL.stop)return;
@@ -89,7 +95,7 @@ async function demoOp(o){if(PL.stop)return;
   if(o.wait){await W(o.wait)}}
 async function runDemo(list){for(const o of list){if(PL.stop)break;await demoOp(o)}}
 window.runDemo=runDemo;
-window.APL={showAt,ribbonCmd,typeText,W,bar};
+window.APL={showAt,ribbonCmd,typeText,W,bar,moveTo,clickFx,realClick};
 async function playReq(i,whole){const it=CO.item;const r=it&&it.reqs[i];if(!r)return;if(it.demoAll&&!r.demo){if(PL.didAll)return;PL.didAll=true;await runDemo(typeof it.demoAll==='function'?it.demoAll():it.demoAll);try{hideCoach()}catch(e){}return}let ok0=false;try{ok0=r.check()}catch(e){}if(ok0&&whole)return;
   if(r.demo){await runDemo(typeof r.demo==='function'?r.demo():r.demo);try{hideCoach()}catch(e){}return}
   if(!r.path&&(r.mi||r.cmd)){let w=null;try{w=r.where&&r.where()}catch(e){}const ops=[];

diff --git a/js/tabletools.js b/js/tabletools.js
@@ -25,7 +25,9 @@ function eraseEdge(td,side){const t=td.closest('table'),g=gridMap(t),a=g.get(td)
 function colEdges(t){const g=gridMap(t),rtl=getComputedStyle(t).direction==='rtl',m={};g.forEach((v,td)=>{const R=td.getBoundingClientRect();if(m[v.c1]==null)m[v.c1]=rtl?R.right:R.left;if(m[v.c2+1]==null)m[v.c2+1]=rtl?R.left:R.right});return m}
 window.colEdges=colEdges;
 function splitByLine(td,dir,pos){const t=td.closest('table'),g=gridMap(t),v=g.get(td);
-  if(dir==='v'){ if(td.colSpan>1){let k=Math.floor(td.colSpan/2);if(pos!=null){const m=colEdges(t);let best=1e9;for(let j=v.c1+1;j<=v.c2;j++){if(m[j]!=null&&Math.abs(m[j]-pos)<best){best=Math.abs(m[j]-pos);k=td.colSpan-(j-v.c1)}}}td.colSpan-=k;const n=newCell();n.colSpan=k;n.rowSpan=td.rowSpan;td.after(n);return}
+  if(dir==='v'){ if(td.colSpan>1){let k=Math.floor(td.colSpan/2);if(pos!=null){const m=colEdges(t);let best=1e9;for(let j=v.c1+1;j<=v.c2;j++){if(m[j]!=null&&Math.abs(m[j]-pos)<best){best=Math.abs(m[j]-pos);k=td.colSpan-(j-v.c1)}}
+      /* الخط بعيد عن أي حدّ موجود: عمود جديد في مكان الرسم (مثل Word) */
+      if(best>8){for(let j=v.c1;j<=v.c2;j++){const a=m[j],b=m[j+1];if(a==null||b==null)continue;if(pos>Math.min(a,b)&&pos<Math.max(a,b)){const n=newCell();n.rowSpan=td.rowSpan;n.colSpan=v.c2-j+1;td.colSpan=j-v.c1+1;td.after(n);g.forEach((w,x)=>{if(x!==td&&w.c1<=j&&w.c2>=j)x.colSpan+=1});return}}}}td.colSpan-=k;const n=newCell();n.colSpan=k;n.rowSpan=td.rowSpan;td.after(n);return}
     const n=newCell();n.rowSpan=td.rowSpan;td.after(n);g.forEach((w,x)=>{if(x!==td&&w.c1<=v.c1&&w.c2>=v.c1&&!(w.r1>=v.r1&&w.r2<=v.r2))x.colSpan+=1});
     /* other rows covered by td's rows are fine; rows outside get the wider cell */ return}
   /* horizontal */

diff --git a/js/features.js b/js/features.js
@@ -315,7 +315,7 @@ function symbolDlg(){let cur=null;
    onOpen:d=>d.querySelectorAll('[data-s]').forEach(b=>b.onclick=()=>{cur=b.dataset.s;d.querySelectorAll('[data-s]').forEach(x=>x.classList.toggle('on',x===b));$('#sname').textContent=(SYM_NAMES[cur]||'رمز')+'  —  رمز الحرف: '+cur.codePointAt(0).toString(16).toUpperCase().padStart(4,'0')}),
    buttons:[{label:'إدراج',pri:1,act:()=>{if(!cur){simToast('اختيار رمز أولًا');return false}OPS.insSymbol(cur);return false}},{label:'إغلاق'}]});
 }
-function colorDlg(cb){dialog({title:'ألوان',body:`<label class="row">اختيار لون: <input type="color" id="cdc" value="#2b579a"></label>`,buttons:[{label:'موافق',pri:1,act:()=>cb($('#cdc').value)},{label:'إلغاء'}]})}
+function colorDlg(cb){dialog({title:'ألوان',body:`<label class="row">اختيار لون: <input type="color" id="cdc" value="#2b579a" oninput="document.getElementById('cdh').value=this.value"></label><label class="row">ست عشري #: <input id="cdh" value="#2b579a" dir="ltr" style="width:90px" oninput="if(/^#[0-9a-f]{6}$/i.test(this.value))document.getElementById('cdc').value=this.value.toLowerCase()"></label>`,buttons:[{label:'موافق',pri:1,act:()=>cb($('#cdc').value)},{label:'إلغاء'}]})}
 
 /* clicking a footnote reference selects it (so Delete removes it) */
 document.addEventListener('mousedown',e=>{const r=e.target.closest&&e.target.closest('#doc .fnr,#doc .enr');if(!r)return;e.preventDefault();const rr=document.createRange();rr.selectNode(r);editHost(r.parentElement).focus();const s=getSelection();s.removeAllRanges();s.addRange(rr);S.range=rr.cloneRange();logAct('noteRefSel')});

diff --git a/admin.html b/admin.html
@@ -5,7 +5,7 @@
 <meta name="viewport" content="width=device-width,initial-scale=1">
 <title>لوحة المتابعة — برنامج وورد</title>
 <link href="https://fonts.googleapis.com/css2?family=Tajawal:wght@400;500;700;800&display=swap" rel="stylesheet">
-<link rel="stylesheet" href="css/app.css?v=11261411">
+<link rel="stylesheet" href="css/app.css?v=11261442">
 <style>
 body{overflow:auto;height:auto;min-height:100vh}
 .atop{display:flex;align-items:center;gap:12px;padding:12px 20px;background:var(--side);color:#fff;position:sticky;top:0;z-index:5}
@@ -54,8 +54,8 @@ table.mini{font-size:13px}table.mini th{position:static}table.mini tr.r2 td:nth-
 <div class="atop"><span class="logo">W</span><b>لوحة المتابعة</b><span class="sp"></span><span id="who" class="muted" style="color:#93a2ba"></span><a href="index.html">فتح الموقع</a><button id="out">خروج</button></div>
 <div class="atabs" id="atabs"><button data-v="track" class="on">📊 المتابعة</button><button data-v="unlock">🔓 فتح الدروس</button><button data-v="students">👩🎓 الطلاب</button><button data-v="sections">🏫 الشعب</button></div>
 <div class="wrap" id="view"></div>
-<script src="js/config.js?v=11261411"></script>
-<script src="js/topics-meta.js?v=11261411"></script>
+<script src="js/config.js?v=11261442"></script>
+<script src="js/topics-meta.js?v=11261442"></script>
 <script>
 const inSec=(st,id)=>st.section_id===id||(st.extra||[]).includes(id);
 const $=s=>document.querySelector(s),$$=s=>[...document.querySelectorAll(s)];const T=(window.ONLY_TOPICS?window.TOPICS_META.filter(t=>ONLY_TOPICS.includes(t.id)):window.TOPICS_META);
